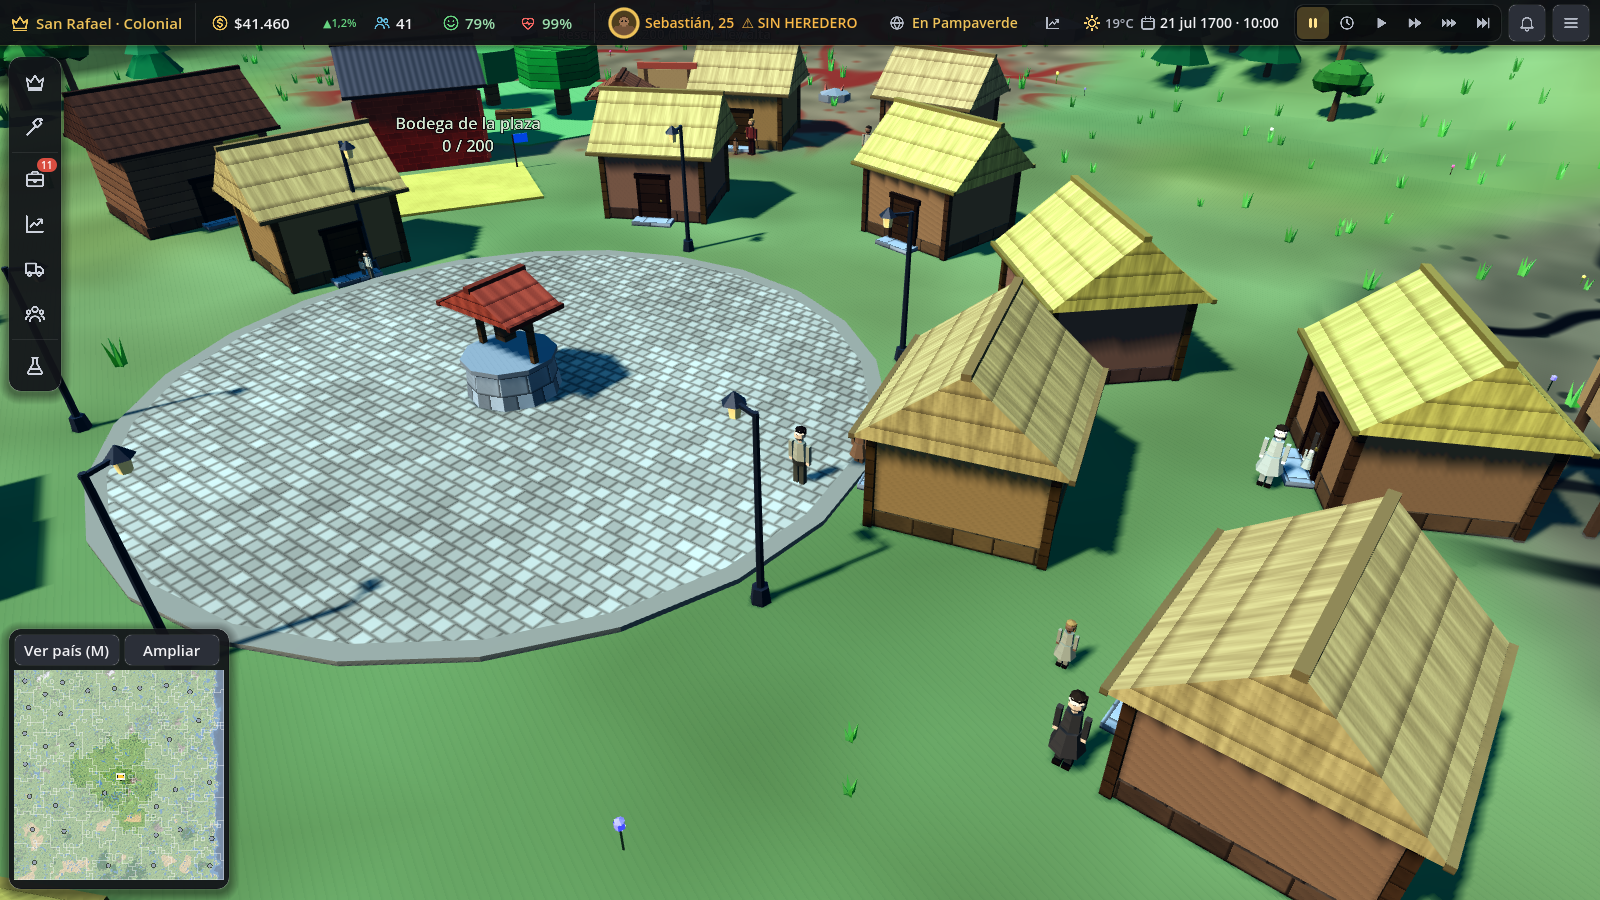
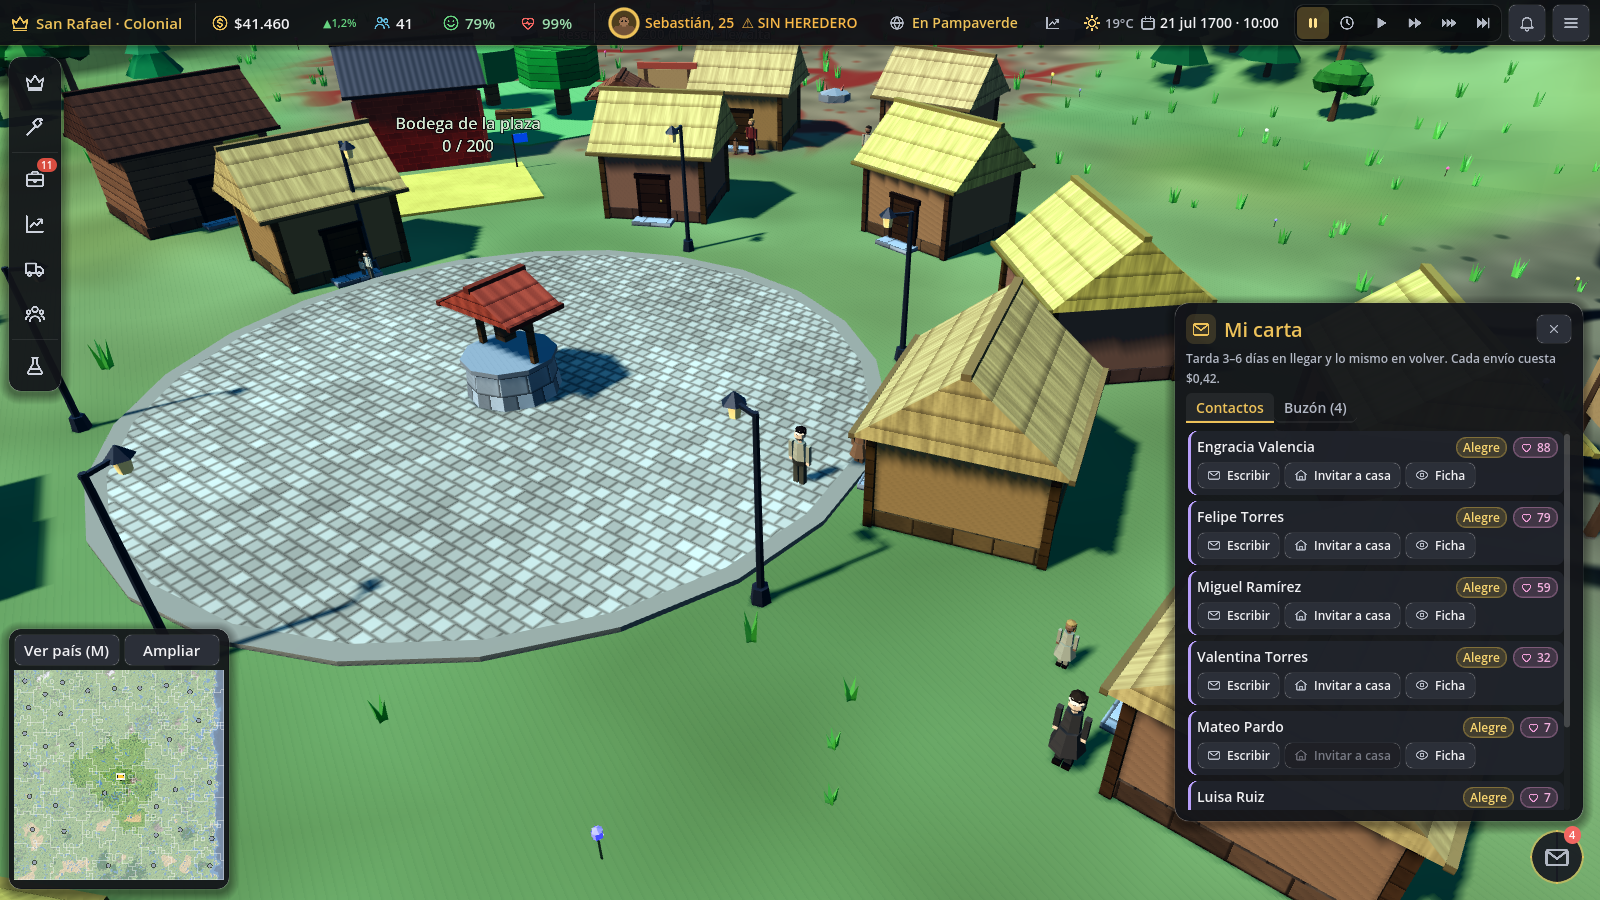
Vida social: capturas finales (dispositivo visible, propuesta en el buzón) y documentación
Claude-Session: https://claude.ai/code/session_01CqBZNUGZ12BKMsMvQQ1tMQ

diff --git a/docs/SOCIAL.md b/docs/SOCIAL.md
@@ -20,7 +20,7 @@ Hay dos reglas que valen para todo:
 | `scripts/ui/social_ui.gd` (`SocialUI`) | Botón y ventana del dispositivo, conversación, oferta de trabajo, formulario de sociedad, sección «Ánimo y relación» de la ficha |
 | `scripts/ui/partners_tab.gd` (`PartnersTab`) | Pestaña «Socios» del panel de edificio |
 | `data/social.json` | Parámetros de todo lo anterior |
-| `tests/test_social.gd` | Pruebas: 116 comprobaciones, de la simulación a la interfaz |
+| `tests/test_social.gd` | Pruebas: más de 110 comprobaciones, de la simulación a la interfaz |
 | `tests/screenshot_social.gd` | Capturas en `docs/capturas/social/` |
 
 ## 1. Socios
